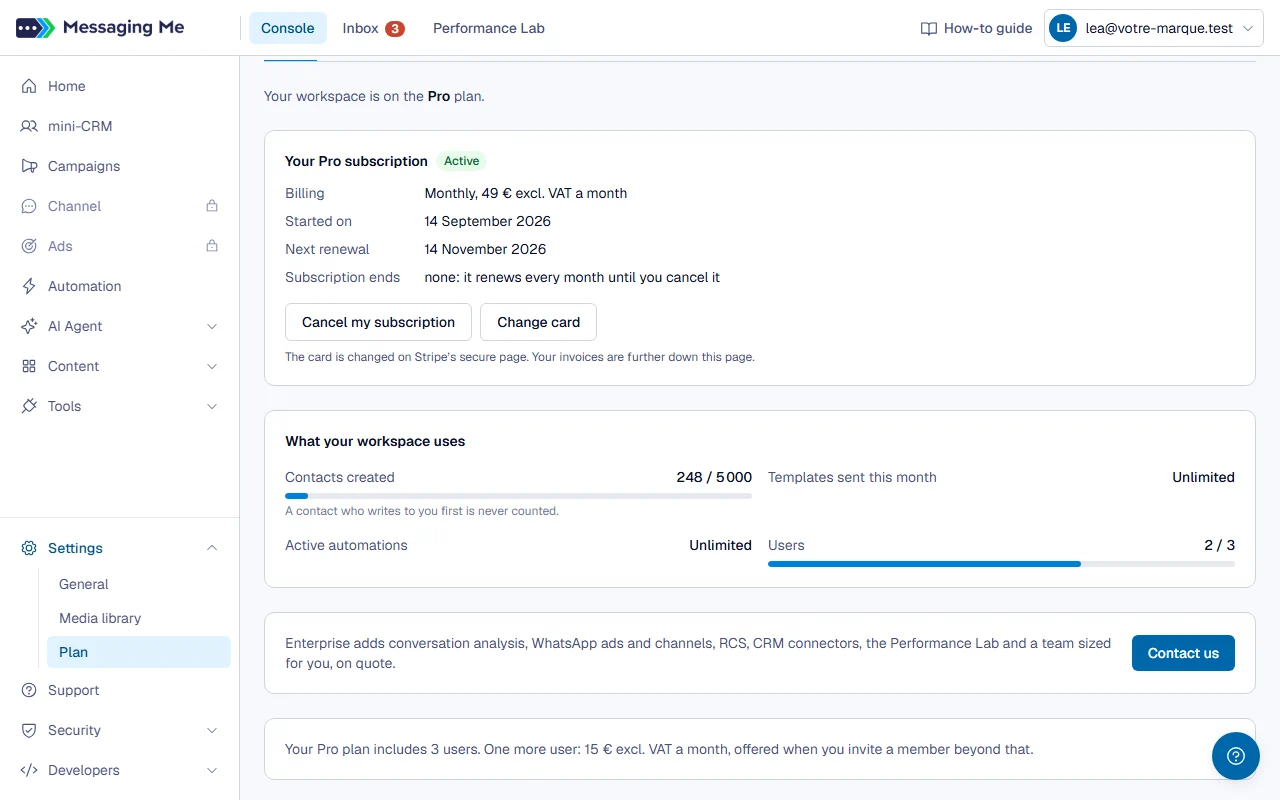
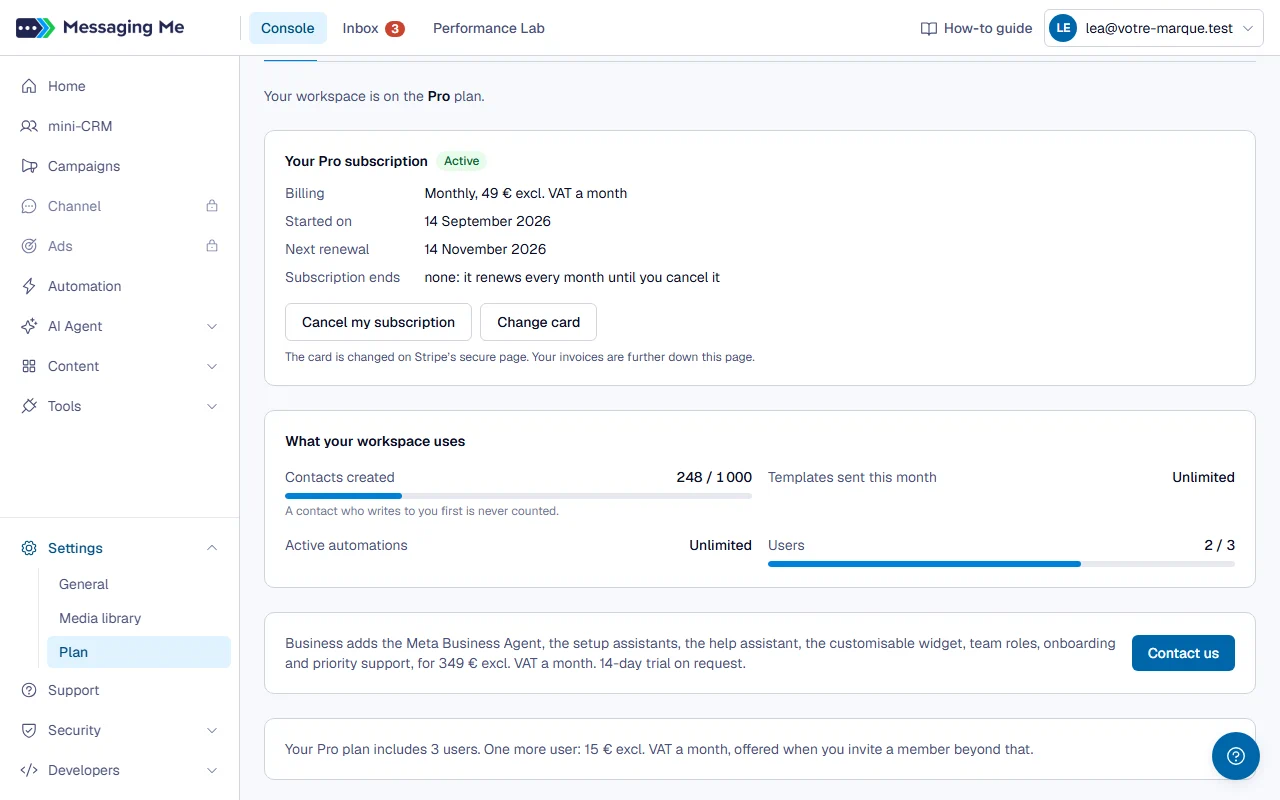
docs(aide): les captures de Choisir mon offre refaites (quatre offres, sans la marge)
Les huit captures de la fiche publique montraient encore la page Offre à trois
colonnes, d'avant le retrait de la marge sur l'IA. Refaites sur la console du
sous-lot B (Free, Pro, Business, Entreprise), puis la fiche régénérée en
français et en anglais (empreintes ?v= nouvelles).

Changed region(s): [[0.2188, 0.7812, 0.875, 0.8438], [0.2188, 0.5938, 0.3125, 0.625]]

diff --git a/site/aide/choisir-mon-offre/index.html b/site/aide/choisir-mon-offre/index.html
@@ -299,10 +299,10 @@
       </div>
     </nav>
     <article class="aide-article">
-      <div class="aide-etape" id="etape-1"><div><h3>1. Voir où vous en êtes</h3><p>Le menu Paramètres &gt; Offre montre votre offre, ce que votre espace consomme de chaque limite (contacts, modèles envoyés ce mois-ci, automations allumées, utilisateurs), et la grille des offres côte à côte. Hors de la Free, son second onglet, Crédit IA, recharge le crédit prépayé de vos agents IA.</p></div><a class="aide-capture" href="/img/aide/choisir-mon-offre/etape-1.webp?v=7b37104e" title="Voir la capture en grand"><img src="/img/aide/choisir-mon-offre/etape-1.webp?v=7b37104e" alt="Étape 1 : Voir où vous en êtes" width="1280" height="800" loading="lazy"></a></div>
-      <div class="aide-etape" id="etape-2"><div><h3>2. Passer en Pro</h3><p>Sur la page Offre, choisissez «&nbsp;Mensuel&nbsp;» ou «&nbsp;Annuel&nbsp;»&nbsp;: vous payez sur la page sécurisée de Stripe, où un code promo se saisit, et votre espace passe en Pro dès que le paiement est confirmé, en général dans la minute.</p><details class="aide-detail"><summary>En détail</summary><p>Si votre espace n'a jamais eu le Pro, il commence par un essai gratuit de 14 jours&nbsp;: la carte est demandée, rien n'est prélevé avant la fin de l'essai, et la page Offre dit la date de fin. Si ces boutons n'apparaissent pas, «&nbsp;Passer en Pro&nbsp;» ouvre le Support avec le sujet déjà rempli. Le Business et l'Entreprise se demandent au Support, par «&nbsp;Nous contacter&nbsp;» sur la page Offre&nbsp;: nous posons l'offre sur votre espace, sans paiement en ligne, et un essai de 14 jours du Business est possible sur demande.</p></details></div><a class="aide-capture" href="/img/aide/choisir-mon-offre/etape-2.webp?v=d754c1a6" title="Voir la capture en grand"><img src="/img/aide/choisir-mon-offre/etape-2.webp?v=d754c1a6" alt="Étape 2 : Passer en Pro" width="1280" height="800" loading="lazy"></a></div>
-      <div class="aide-etape" id="etape-3"><div><h3>3. Suivre et résilier mon abonnement</h3><p>En Pro, la carte «&nbsp;Votre abonnement&nbsp;», en tête de la page Offre, dit son statut (actif, essai gratuit, paiement en retard ou résiliation programmée), sa formule et son prix, sa date de souscription, et son prochain renouvellement ou sa date de fin.</p><details class="aide-detail"><summary>En détail</summary><p>«&nbsp;Résilier mon abonnement&nbsp;» arrête le Pro à la fin de la période payée, ou de l'essai sans rien prélever&nbsp;: la confirmation dit la date exacte, et jusqu'à cette date «&nbsp;Annuler la résiliation&nbsp;» le garde. «&nbsp;Changer de carte bancaire&nbsp;» ouvre la page sécurisée de Stripe.</p><p>Pour passer du mensuel à l'annuel, écrivez-nous au Support. Une résiliation ne rembourse rien&nbsp;: votre espace garde le Pro jusqu'à la date de fin, puis revient en Free.</p></details></div><a class="aide-capture" href="/img/aide/choisir-mon-offre/etape-3.webp?v=b4b129fc" title="Voir la capture en grand"><img src="/img/aide/choisir-mon-offre/etape-3.webp?v=b4b129fc" alt="Étape 3 : Suivre et résilier mon abonnement" width="1280" height="800" loading="lazy"></a></div>
-      <div class="aide-etape" id="etape-4"><div><h3>4. Retrouver mes factures</h3><p>La page Offre liste les factures de votre espace, celles de l'abonnement, du numéro et des recharges du crédit IA, avec leur montant et leur statut. Chacune s'ouvre sur la page de Stripe, avec son PDF.</p></div><a class="aide-capture" href="/img/aide/choisir-mon-offre/etape-4.webp?v=ff75b323" title="Voir la capture en grand"><img src="/img/aide/choisir-mon-offre/etape-4.webp?v=ff75b323" alt="Étape 4 : Retrouver mes factures" width="1280" height="800" loading="lazy"></a></div>
+      <div class="aide-etape" id="etape-1"><div><h3>1. Voir où vous en êtes</h3><p>Le menu Paramètres &gt; Offre montre votre offre, ce que votre espace consomme de chaque limite (contacts, modèles envoyés ce mois-ci, automations allumées, utilisateurs), et la grille des offres côte à côte. Hors de la Free, son second onglet, Crédit IA, recharge le crédit prépayé de vos agents IA.</p></div><a class="aide-capture" href="/img/aide/choisir-mon-offre/etape-1.webp?v=cfffd9d9" title="Voir la capture en grand"><img src="/img/aide/choisir-mon-offre/etape-1.webp?v=cfffd9d9" alt="Étape 1 : Voir où vous en êtes" width="1280" height="800" loading="lazy"></a></div>
+      <div class="aide-etape" id="etape-2"><div><h3>2. Passer en Pro</h3><p>Sur la page Offre, choisissez «&nbsp;Mensuel&nbsp;» ou «&nbsp;Annuel&nbsp;»&nbsp;: vous payez sur la page sécurisée de Stripe, où un code promo se saisit, et votre espace passe en Pro dès que le paiement est confirmé, en général dans la minute.</p><details class="aide-detail"><summary>En détail</summary><p>Si votre espace n'a jamais eu le Pro, il commence par un essai gratuit de 14 jours&nbsp;: la carte est demandée, rien n'est prélevé avant la fin de l'essai, et la page Offre dit la date de fin. Si ces boutons n'apparaissent pas, «&nbsp;Passer en Pro&nbsp;» ouvre le Support avec le sujet déjà rempli. Le Business et l'Entreprise se demandent au Support, par «&nbsp;Nous contacter&nbsp;» sur la page Offre&nbsp;: nous posons l'offre sur votre espace, sans paiement en ligne, et un essai de 14 jours du Business est possible sur demande.</p></details></div><a class="aide-capture" href="/img/aide/choisir-mon-offre/etape-2.webp?v=39cb59f8" title="Voir la capture en grand"><img src="/img/aide/choisir-mon-offre/etape-2.webp?v=39cb59f8" alt="Étape 2 : Passer en Pro" width="1280" height="800" loading="lazy"></a></div>
+      <div class="aide-etape" id="etape-3"><div><h3>3. Suivre et résilier mon abonnement</h3><p>En Pro, la carte «&nbsp;Votre abonnement&nbsp;», en tête de la page Offre, dit son statut (actif, essai gratuit, paiement en retard ou résiliation programmée), sa formule et son prix, sa date de souscription, et son prochain renouvellement ou sa date de fin.</p><details class="aide-detail"><summary>En détail</summary><p>«&nbsp;Résilier mon abonnement&nbsp;» arrête le Pro à la fin de la période payée, ou de l'essai sans rien prélever&nbsp;: la confirmation dit la date exacte, et jusqu'à cette date «&nbsp;Annuler la résiliation&nbsp;» le garde. «&nbsp;Changer de carte bancaire&nbsp;» ouvre la page sécurisée de Stripe.</p><p>Pour passer du mensuel à l'annuel, écrivez-nous au Support. Une résiliation ne rembourse rien&nbsp;: votre espace garde le Pro jusqu'à la date de fin, puis revient en Free.</p></details></div><a class="aide-capture" href="/img/aide/choisir-mon-offre/etape-3.webp?v=cf598681" title="Voir la capture en grand"><img src="/img/aide/choisir-mon-offre/etape-3.webp?v=cf598681" alt="Étape 3 : Suivre et résilier mon abonnement" width="1280" height="800" loading="lazy"></a></div>
+      <div class="aide-etape" id="etape-4"><div><h3>4. Retrouver mes factures</h3><p>La page Offre liste les factures de votre espace, celles de l'abonnement, du numéro et des recharges du crédit IA, avec leur montant et leur statut. Chacune s'ouvre sur la page de Stripe, avec son PDF.</p></div><a class="aide-capture" href="/img/aide/choisir-mon-offre/etape-4.webp?v=41577045" title="Voir la capture en grand"><img src="/img/aide/choisir-mon-offre/etape-4.webp?v=41577045" alt="Étape 4 : Retrouver mes factures" width="1280" height="800" loading="lazy"></a></div>
       <div class="aide-prose"><h2>Ce que comprend chaque offre</h2><p><strong>Ce que l'offre Free comprend.</strong> Votre numéro WhatsApp, l'API et la connexion à Claude, avec des plafonds&nbsp;: contacts, modèles envoyés chaque mois, un seul utilisateur. Claude et l'API lisent vos conversations, répondent à vos clients dans les 24 heures, envoient vos modèles et construisent votre agent IA. Dans la console, la Free garde l'accueil (votre numéro), les clés d'API, la documentation, l'offre, votre compte et le support.</p><p><strong>Ce que le Pro, le Business et l'Entreprise ajoutent.</strong> Le Pro ouvre la console&nbsp;: l'Inbox, les scénarios, les statistiques et l'e-mail, avec plus de contacts. Il compte trois utilisateurs, tous administrateurs&nbsp;: au-delà, chaque utilisateur en plus se paie, et son prix s'affiche quand vous invitez le membre, avant que rien ne soit facturé. La page Offre en retire un, sans remboursement, une fois le membre en trop désactivé. Le Business ajoute le Meta Business Agent, les assistants de configuration, l'assistant d'aide, le widget personnalisable et les rôles de l'équipe (administrateur, manager, agent), avec cinq utilisateurs, l'accompagnement de la mise en route et le support prioritaire&nbsp;; un utilisateur de plus s'y demande au Support. Les publicités, les chaînes, le RCS, Salesforce et Batch, et le Performance Lab complet demandent l'Entreprise.</p><p><strong>Ce que compte la limite de contacts.</strong> En Free, tous vos contacts comptent, ceux qui vous écrivent les premiers compris. Quand votre espace Free est plein, créer ou importer un contact est refusé, et un nouveau client qui vous écrit n'entre pas dans Messaging Me&nbsp;: son message n'est pas enregistré et votre agent IA ne lui répond pas. Un e-mail vous prévient, une fois par jour au plus. Vos contacts déjà présents vous écrivent comme avant, et un contact supprimé libère sa place&nbsp;: demandez à Claude de supprimer ceux dont vous n'avez plus besoin. Hors de la Free, un contact qui vous écrit le premier n'est jamais compté ni refusé.</p><p><strong>Ce qui n'est jamais compté.</strong> Une réponse envoyée dans les 24 heures qui suivent un message du client n'est pas un envoi de modèle&nbsp;: elle n'est pas comptée.</p><p><strong>Quand quelque chose n'est pas dans votre offre.</strong> Le menu reste visible, grisé, avec un cadenas&nbsp;: il vous mène à la page Offre. Si une action est refusée parce qu'une limite est atteinte, un message vous le dit, avec un bouton «&nbsp;Voir les offres&nbsp;».</p><p><strong>Combien de temps vos conversations sont gardées.</strong> 30 jours en Free, 60 jours en Pro, 90 jours en Business&nbsp;; en Entreprise, la durée réglée avec vous. Une durée plus courte ne s'applique que 30 jours après l'entrée dans l'offre (à la création de l'espace, à la fin de votre Pro, au départ du Business ou de l'Entreprise)&nbsp;: changer d'offre n'efface rien sur le coup.</p></div>
       <div class="aide-prose"><h2>Si votre espace revient en Free</h2><p>Rien n'est effacé, et tout revient quand vous reprenez le Pro. En attendant, seules vos 10 automations les plus anciennes lancent encore leurs scénarios (vos widgets ne démarrent plus le leur), l'agent de Meta ne prend plus de nouvelles conversations, et les membres au-delà de la limite de l'offre Free voient leur accès suspendu (l'administrateur le plus ancien garde le sien)&nbsp;: dès que l'espace repasse en Pro, «&nbsp;Réessayer&nbsp;» leur rend la console. Vos contacts restent tous, même au-delà de la limite de la Free&nbsp;: tant qu'il y en a trop, vous ne pouvez plus en créer ni en importer, et un nouveau client qui vous écrit n'entre pas.</p><p>Un e-mail, la page Offre et Claude vous disent combien en supprimer pour revenir à la limite. Demandez à Claude de les supprimer, d'un coup, et quelques-uns de plus pour laisser entrer de nouveaux clients&nbsp;: les plus anciens, ou ceux d'une étiquette. Il vous montre d'abord leur nombre et quelques fiches, et ne supprime qu'après votre accord. Tant que votre espace dépasse sa limite, ces suppressions ne sont pas limitées par jour.</p></div>
       <div class="aide-prose"><h2>Votre numéro fourni</h2><p>Il est inclus dans le Pro, le Business et l'Entreprise&nbsp;: obtenez-le sans payer depuis la page «&nbsp;Connecter WhatsApp&nbsp;». S'il était déjà payé à part, cet abonnement s'arrête au premier paiement du Pro, avec un avoir sur la facture suivante. Si vous résiliez le Pro, la page Offre et un e-mail vous préviennent&nbsp;: à la fin du Pro, le numéro passe à 3,50 € HT par mois sur la même carte. Pour le rendre à la place, choisissez «&nbsp;Rendre mon numéro à la fin du Pro&nbsp;» sur la page Offre&nbsp;; vous pouvez revenir sur ce choix tant que le Pro court. Si vous envoyez par votre propre numéro, le numéro fourni ne reprend pas&nbsp;: il est libéré sept jours après la fin du Pro.</p></div>

diff --git a/site/en/help/choose-my-plan/index.html b/site/en/help/choose-my-plan/index.html
@@ -299,10 +299,10 @@
       </div>
     </nav>
     <article class="aide-article">
-      <div class="aide-etape" id="etape-1"><div><h3>1. See where you stand</h3><p>The Settings &gt; Plan menu shows your plan, how much of each limit your workspace uses (contacts, templates sent this month, automations switched on, users), and the plans side by side. Outside Free, its second tab, AI credit, tops up the prepaid credit of your AI agents.</p></div><a class="aide-capture" href="/img/aide/choisir-mon-offre/etape-1-en.webp?v=7ba79b90" title="View the screenshot full size"><img src="/img/aide/choisir-mon-offre/etape-1-en.webp?v=7ba79b90" alt="Step 1: See where you stand" width="1280" height="800" loading="lazy"></a></div>
-      <div class="aide-etape" id="etape-2"><div><h3>2. Upgrade to Pro</h3><p>On the Plan page, choose “Monthly” or “Yearly”: you pay on Stripe’s secure page, where a promo code can be entered, and your workspace switches to Pro as soon as the payment is confirmed, usually within the minute.</p><details class="aide-detail"><summary>In detail</summary><p>If your workspace has never had Pro, it starts with a free 14-day trial: the card is requested, nothing is charged before the trial ends, and the Plan page shows the end date. If these buttons do not appear, “Upgrade to Pro” opens Support with the subject already filled in. Business and Enterprise are requested through Support, with “Contact us” on the Plan page: we set the plan on your workspace, with no online payment, and a 14-day Business trial is available on request.</p></details></div><a class="aide-capture" href="/img/aide/choisir-mon-offre/etape-2-en.webp?v=189a41dd" title="View the screenshot full size"><img src="/img/aide/choisir-mon-offre/etape-2-en.webp?v=189a41dd" alt="Step 2: Upgrade to Pro" width="1280" height="800" loading="lazy"></a></div>
-      <div class="aide-etape" id="etape-3"><div><h3>3. Follow and cancel my subscription</h3><p>On Pro, the “Your Pro subscription” card, at the top of the Plan page, shows its status (active, free trial, payment overdue or cancellation scheduled), its billing and price, its start date, and its next renewal or its end date.</p><details class="aide-detail"><summary>In detail</summary><p>“Cancel my subscription” stops Pro at the end of the paid period, or of the trial without charging anything: the confirmation gives the exact date, and until that date “Keep my subscription” keeps it. “Change card” opens Stripe’s secure page.</p><p>To switch from monthly to yearly, write to us through Support. A cancellation refunds nothing: your workspace keeps Pro until the end date, then goes back to Free.</p></details></div><a class="aide-capture" href="/img/aide/choisir-mon-offre/etape-3-en.webp?v=09f8c0ae" title="View the screenshot full size"><img src="/img/aide/choisir-mon-offre/etape-3-en.webp?v=09f8c0ae" alt="Step 3: Follow and cancel my subscription" width="1280" height="800" loading="lazy"></a></div>
-      <div class="aide-etape" id="etape-4"><div><h3>4. Find my invoices</h3><p>The Plan page lists your workspace’s invoices, for the subscription, the number and the AI credit top-ups, with their amount and status. Each one opens on Stripe’s page, with its PDF.</p></div><a class="aide-capture" href="/img/aide/choisir-mon-offre/etape-4-en.webp?v=ee0f42a3" title="View the screenshot full size"><img src="/img/aide/choisir-mon-offre/etape-4-en.webp?v=ee0f42a3" alt="Step 4: Find my invoices" width="1280" height="800" loading="lazy"></a></div>
+      <div class="aide-etape" id="etape-1"><div><h3>1. See where you stand</h3><p>The Settings &gt; Plan menu shows your plan, how much of each limit your workspace uses (contacts, templates sent this month, automations switched on, users), and the plans side by side. Outside Free, its second tab, AI credit, tops up the prepaid credit of your AI agents.</p></div><a class="aide-capture" href="/img/aide/choisir-mon-offre/etape-1-en.webp?v=e967e3c4" title="View the screenshot full size"><img src="/img/aide/choisir-mon-offre/etape-1-en.webp?v=e967e3c4" alt="Step 1: See where you stand" width="1280" height="800" loading="lazy"></a></div>
+      <div class="aide-etape" id="etape-2"><div><h3>2. Upgrade to Pro</h3><p>On the Plan page, choose “Monthly” or “Yearly”: you pay on Stripe’s secure page, where a promo code can be entered, and your workspace switches to Pro as soon as the payment is confirmed, usually within the minute.</p><details class="aide-detail"><summary>In detail</summary><p>If your workspace has never had Pro, it starts with a free 14-day trial: the card is requested, nothing is charged before the trial ends, and the Plan page shows the end date. If these buttons do not appear, “Upgrade to Pro” opens Support with the subject already filled in. Business and Enterprise are requested through Support, with “Contact us” on the Plan page: we set the plan on your workspace, with no online payment, and a 14-day Business trial is available on request.</p></details></div><a class="aide-capture" href="/img/aide/choisir-mon-offre/etape-2-en.webp?v=524d43f6" title="View the screenshot full size"><img src="/img/aide/choisir-mon-offre/etape-2-en.webp?v=524d43f6" alt="Step 2: Upgrade to Pro" width="1280" height="800" loading="lazy"></a></div>
+      <div class="aide-etape" id="etape-3"><div><h3>3. Follow and cancel my subscription</h3><p>On Pro, the “Your Pro subscription” card, at the top of the Plan page, shows its status (active, free trial, payment overdue or cancellation scheduled), its billing and price, its start date, and its next renewal or its end date.</p><details class="aide-detail"><summary>In detail</summary><p>“Cancel my subscription” stops Pro at the end of the paid period, or of the trial without charging anything: the confirmation gives the exact date, and until that date “Keep my subscription” keeps it. “Change card” opens Stripe’s secure page.</p><p>To switch from monthly to yearly, write to us through Support. A cancellation refunds nothing: your workspace keeps Pro until the end date, then goes back to Free.</p></details></div><a class="aide-capture" href="/img/aide/choisir-mon-offre/etape-3-en.webp?v=89c24312" title="View the screenshot full size"><img src="/img/aide/choisir-mon-offre/etape-3-en.webp?v=89c24312" alt="Step 3: Follow and cancel my subscription" width="1280" height="800" loading="lazy"></a></div>
+      <div class="aide-etape" id="etape-4"><div><h3>4. Find my invoices</h3><p>The Plan page lists your workspace’s invoices, for the subscription, the number and the AI credit top-ups, with their amount and status. Each one opens on Stripe’s page, with its PDF.</p></div><a class="aide-capture" href="/img/aide/choisir-mon-offre/etape-4-en.webp?v=ec0bd35c" title="View the screenshot full size"><img src="/img/aide/choisir-mon-offre/etape-4-en.webp?v=ec0bd35c" alt="Step 4: Find my invoices" width="1280" height="800" loading="lazy"></a></div>
       <div class="aide-prose"><h2>What each plan includes</h2><p><strong>What the Free plan includes.</strong> Your WhatsApp number, the API and the connection to Claude, with caps: contacts, templates sent each month, a single user. Claude and the API read your conversations, reply to your customers within 24 hours, send your templates and build your AI agent. In the console, Free keeps the Home screen (your number), the API keys, the documentation, the plan, your account and support.</p><p><strong>What Pro, Business and Enterprise add.</strong> Pro opens the console: the Inbox, scenarios, statistics and email, with more contacts. It includes three users, all administrators: beyond that, each extra user is paid for, and its price is shown when you invite the member, before anything is billed. The Plan page removes one, without a refund, once the extra member is deactivated. Business adds the Meta Business Agent, the setup assistants, the help assistant, the customisable widget and team roles (administrator, manager, agent), with five users, onboarding and priority support; an extra user is requested through Support. Ads, channels, RCS, Salesforce and Batch, and the full Performance Lab require Enterprise.</p><p><strong>What the contact limit counts.</strong> On Free, all your contacts count, including those who write to you first. When your Free workspace is full, creating or importing a contact is refused, and a new customer who writes to you does not get into Messaging Me: their message is not recorded and your AI agent does not reply to them. An email lets you know, at most once a day. Your existing contacts write to you as before, and a deleted contact frees its place: ask Claude to delete the ones you no longer need. Outside Free, a contact who writes to you first is never counted nor refused.</p><p><strong>What is never counted.</strong> A reply sent within 24 hours of a customer’s message is not a template send: it is not counted.</p><p><strong>When something is not in your plan.</strong> The menu stays visible, greyed out, with a padlock: it takes you to the Plan page. If an action is refused because a limit is reached, a message tells you so, with a “See plans” button.</p><p><strong>How long your conversations are kept.</strong> 30 days on Free, 60 days on Pro, 90 days on Business; on Enterprise, the duration agreed with you. A shorter duration only applies 30 days after entering the plan (when the workspace is created, when your Pro ends, when you leave Business or Enterprise): changing plan deletes nothing on the spot.</p></div>
       <div class="aide-prose"><h2>If your workspace goes back to Free</h2><p>Nothing is deleted, and everything comes back when you take Pro again. Meanwhile, only your 10 oldest automations still start their scenarios (your widgets no longer start theirs), Meta’s agent no longer takes new conversations, and members beyond the Free plan’s limit have their access suspended (the oldest administrator keeps theirs): as soon as the workspace is back on Pro, “Retry” gives them the console back. All your contacts stay, even beyond the Free plan’s limit: as long as there are too many, you can no longer create or import any, and a new customer who writes to you does not get in.</p><p>An email, the Plan page and Claude tell you how many to delete to get back to the limit. Ask Claude to delete them, in one go, and a few more to let new customers in: the oldest, or those with a tag. It first shows you how many there are and a few records, and only deletes once you agree. As long as your workspace is above its limit, these deletions are not capped per day.</p></div>
       <div class="aide-prose"><h2>Your provided number</h2><p>It is included in Pro, Business and Enterprise: get it at no cost from the “Connect WhatsApp” page. If it was already paid for separately, that subscription stops at the first Pro payment, with a credit on the next invoice. If you cancel Pro, the Plan page and an email warn you: when Pro ends, the number moves to €3.50 excl. VAT a month on the same card. To give it back instead, choose “Give back my number when Pro ends” on the Plan page; you can change your mind as long as Pro is running. If you send through your own number, the provided number does not resume: it is released seven days after Pro ends.</p></div>
